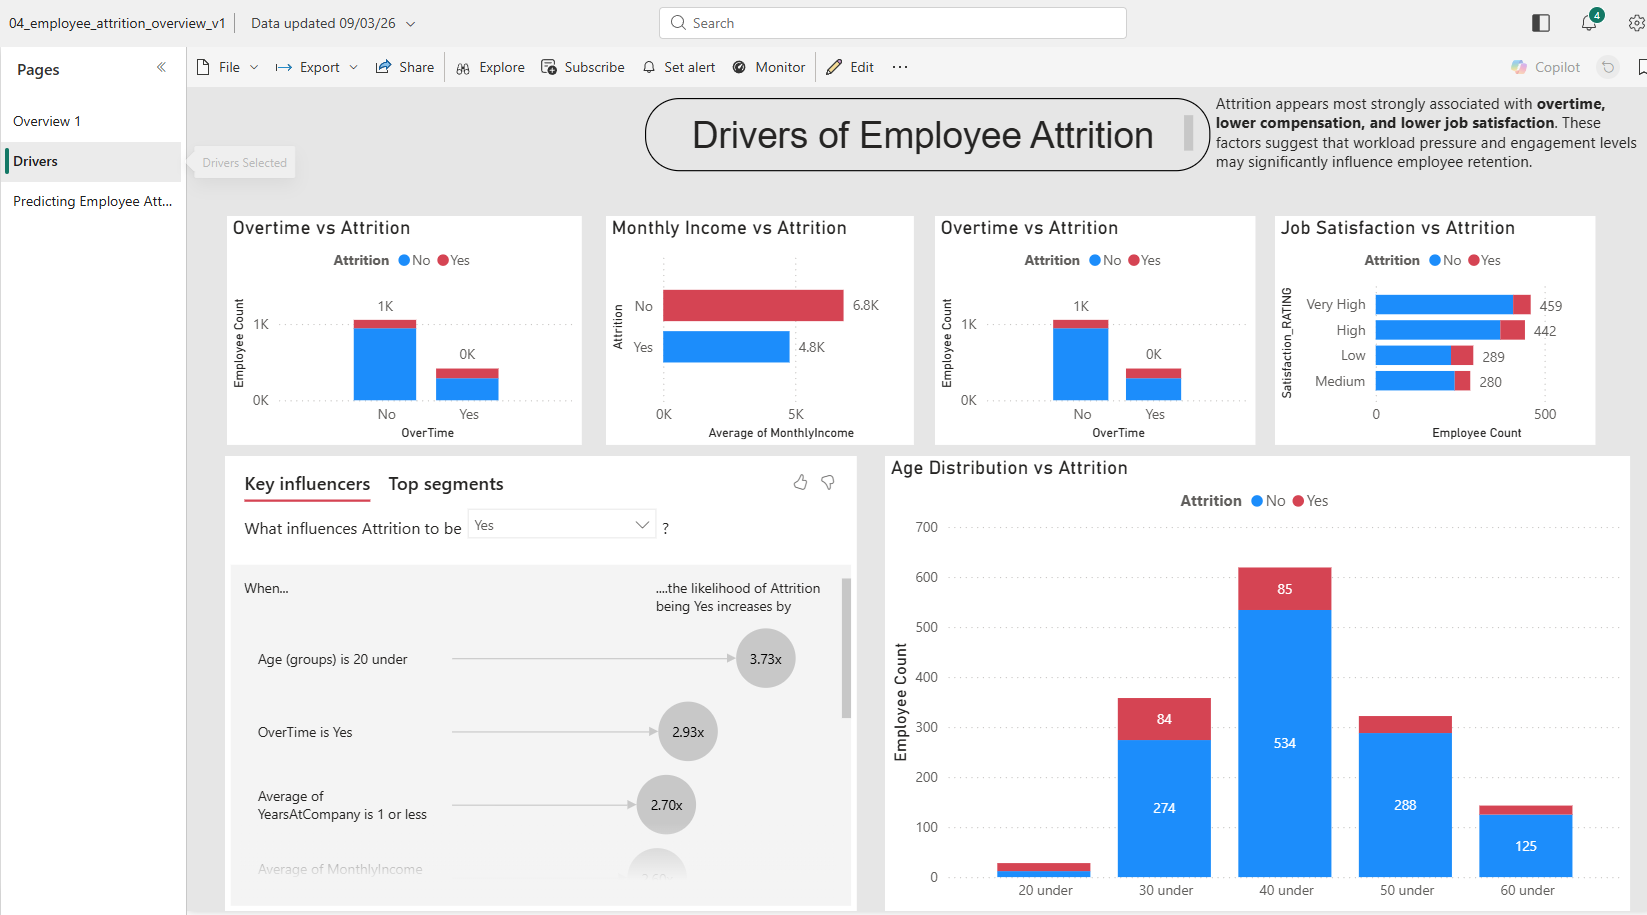
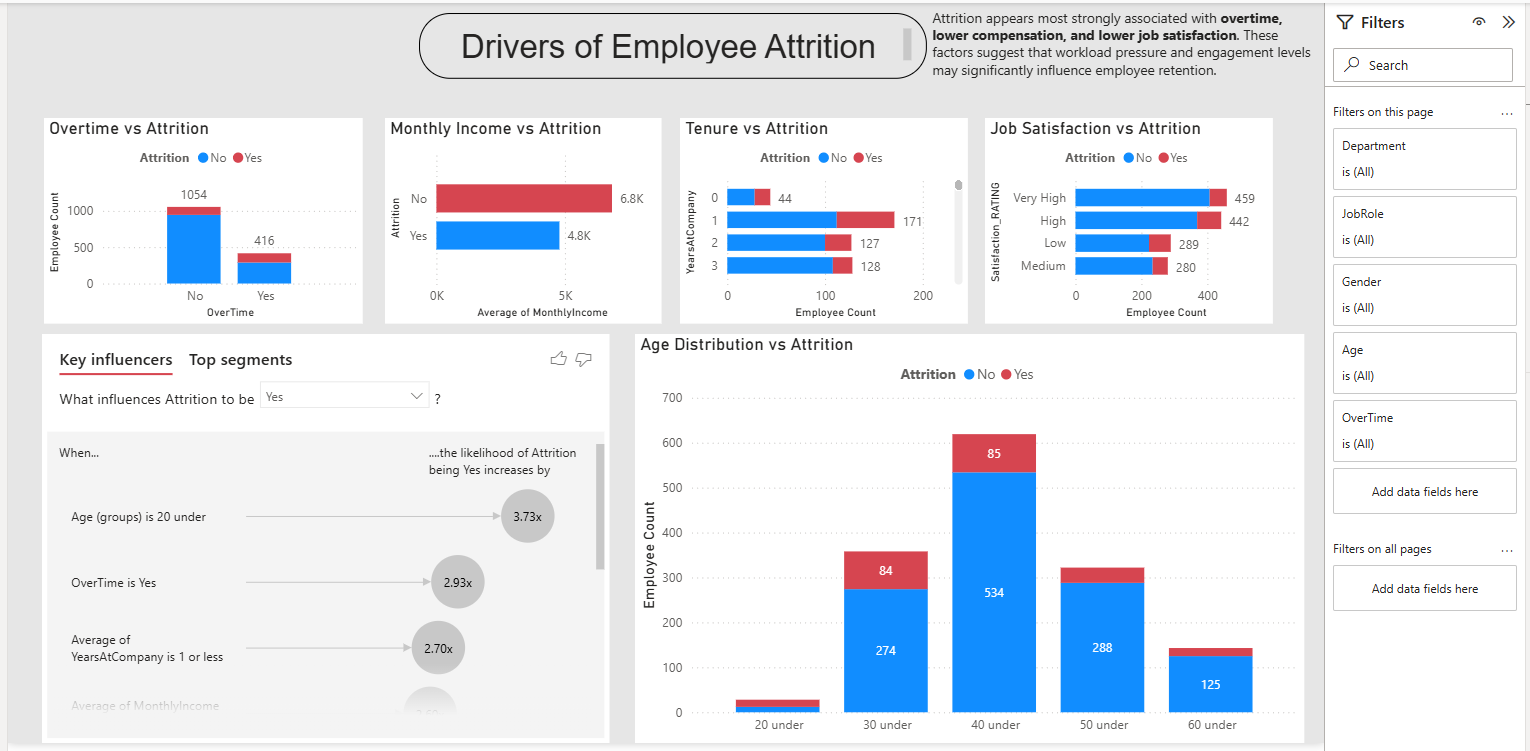
readme tweak, image & dashboard updates

diff --git a/README.md b/README.md
@@ -227,8 +227,6 @@ The Power BI dashboard was designed as a minimum viable product (MVP) to help st
 
 ![Power BI dashboard overview](images/powerbi-dashboard-overview.png)
 
-### Optional Additional Dashboard Screenshots
-
 ![Power BI dashboard page 2](images/powerbi-dashboard-page-2.png)
 
 ![Power BI dashboard page 3](images/powerbi-dashboard-page-3.png)
@@ -291,10 +289,9 @@ Project delivery was tracked using a GitHub Projects board, which was used to or
 
 Using the board supported a more disciplined workflow by breaking the capstone into manageable stages and making progress visible throughout the build. The live GitHub Projects board can be viewed here: [https://github.com/users/RNB1993/projects/3](https://github.com/users/RNB1993/projects/3).
 
-**Project board screenshot placeholder:**  
-`![GitHub Projects board](images/github-projects-board.png)`
+**Project board screenshot:**  
 
-A screenshot of the GitHub Projects board can also be included in the repository to evidence task tracking and project organisation.
+![GitHub Projects board](images/github-projects-board.png)
 
 ---
 
@@ -324,7 +321,7 @@ A screenshot of the GitHub Projects board can also be included in the repository
 
 ## How to Run the Project
 
-1. Clone this repository.
+1. Clone this repository and create a Python venv environment. 
 2. Install the required dependencies from `requirements.txt`.
 3. Open the notebooks in Jupyter Notebook or VS Code.
 4. Run the ETL notebook first to generate the cleaned dataset.
@@ -382,20 +379,30 @@ As the current dashboard is positioned as an MVP, there is clear scope for futur
 
 ---
 
-## Credits
-
 ### Content and inspiration
 
 - Code Institute assessment guidance and project structure
 - Public dataset provider: `pavansubhasht/ibm-hr-analytics-attrition-dataset/`
 
+---
+
 ### Acknowledgements
 
-- Bootcamp materials and walkthrough references
-- Any third-party articles, tutorials, or code snippets used during development should be listed here
+- Bootcamp materials
++ Chapater: Advanced data analytics, Subsections: visualisation machine learning (Advanced ML methodologies using Python, Case studies of implementing AI/ML models in different industries)
+- Walkthrough references 
++ [power bi heatmap guide](https://www.youngurbanproject.com/power-bi-heatmap/)
++ [Influncers guide on creation](https://learn.microsoft.com/en-us/power-bi/visuals/power-bi-visualization-influencers?tabs=powerbi-desktop))
+
+---
+## Use of AI Tools
+AI-assisted tools were used to support hypothesis development,
+code refinement (Microsoft copilot), and narrative clarity (Grammarly premium).
+All AI-assisted suggestions were reviewed and validated
+against the dataset prior to inclusion.
 
 ---
 
 ## Disclaimer
 
-This project was created for educational purposes as part of the Code Institute Advanced Data Analytics, Visualisation and Machine Learning bootcamp portfolio submission.
+This project was created for educational purposes as part of the Code Institute Advanced Data Analytics, Visualisation and Machine Learning bootcamp portfolio submission (number 2).
